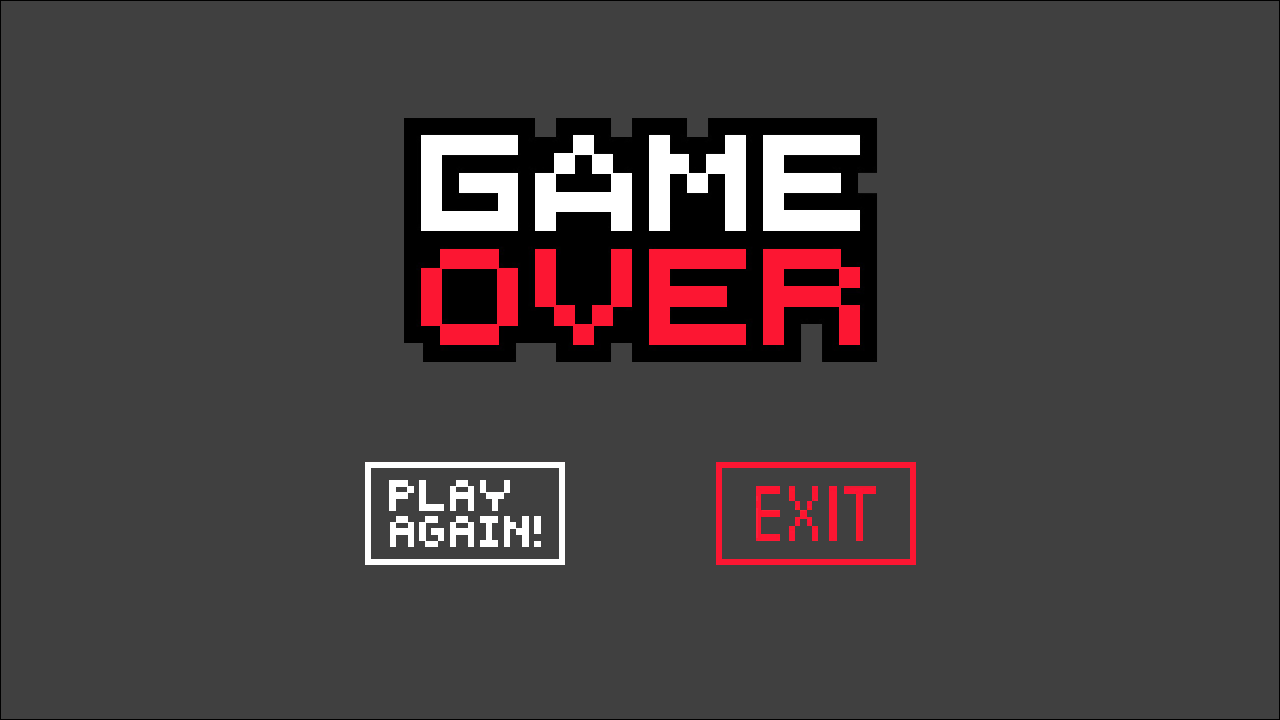
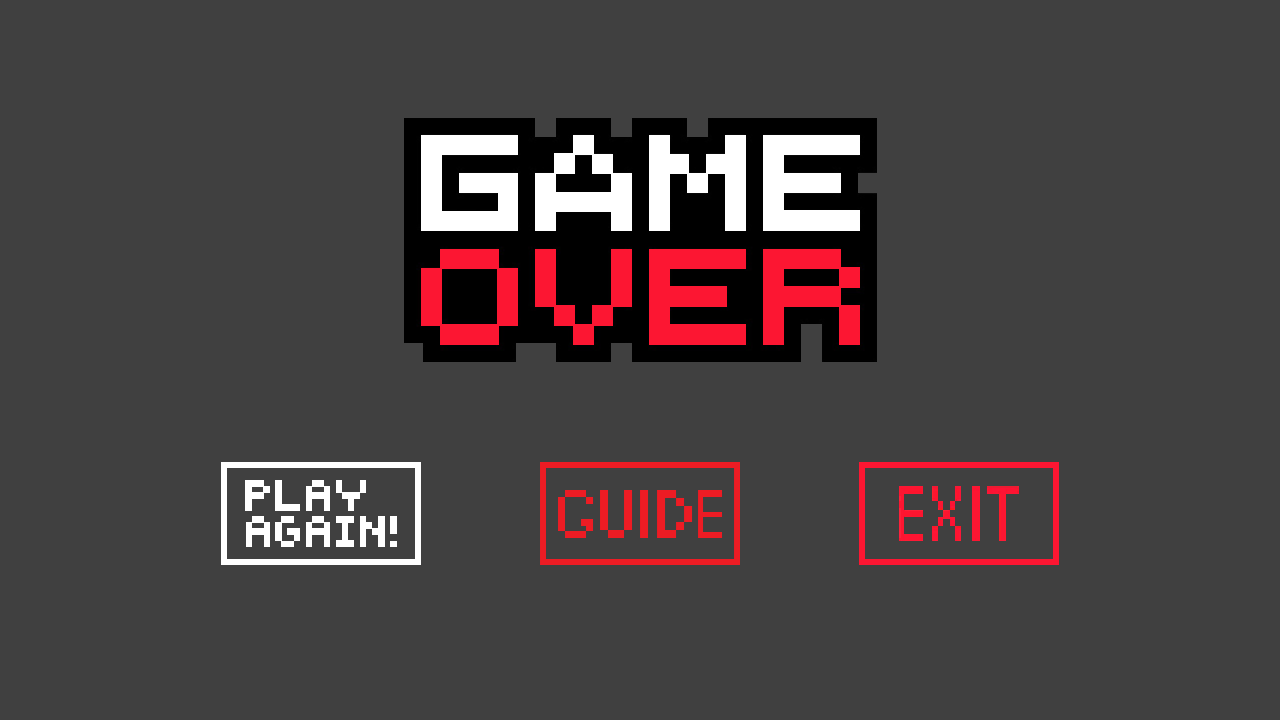
Added a Guide section in the main and game over screen.

Changed region(s): [[0.1562, 0.6417, 0.8438, 0.7944]]

diff --git a/src/main/java/meujogo/Modelo/Phase.java b/src/main/java/meujogo/Modelo/Phase.java
@@ -10,12 +10,13 @@ import java.awt.event.KeyAdapter;
 import java.awt.event.KeyEvent;
 
 public class Phase extends JPanel implements ActionListener {
-    private final Image background, skull, gameoverPlayAgain, gameoverExit, gameStartPlay, gameStartExit, explosion;
+    private final Image background, skull, gameoverPlayAgain, gameoverGuide, gameoverExit, gameStartPlay, gameStartExit, gameStartGuide, guideScreen, explosion;
     private int x1, x2;
     private final Player player;
     private List<Enemy1> enemy1;
     private List<Heart> hearts;
     private boolean inGame;
+    private boolean guide;
     private boolean showGameOver;
     private boolean starting = true;
     private int selectedOption = 0;
@@ -33,9 +34,12 @@ public class Phase extends JPanel implements ActionListener {
         background = new ImageIcon("D:\\Java\\Projects\\Galaxy Blitz\\src\\Media\\background.png").getImage();
         skull = new ImageIcon("D:\\Java\\Projects\\Galaxy Blitz\\src\\Media\\kills.png").getImage();
         gameoverPlayAgain = new ImageIcon("D:\\Java\\Projects\\Galaxy Blitz\\src\\Media\\game_over1.png").getImage();
-        gameoverExit = new ImageIcon("D:\\Java\\Projects\\Galaxy Blitz\\src\\Media\\game_over2.png").getImage();
+        gameoverGuide = new ImageIcon("D:\\Java\\Projects\\Galaxy Blitz\\src\\Media\\game_over2.png").getImage();
+        gameoverExit = new ImageIcon("D:\\Java\\Projects\\Galaxy Blitz\\src\\Media\\game_over3.png").getImage();
         gameStartPlay = new ImageIcon("D:\\Java\\Projects\\Galaxy Blitz\\src\\Media\\title1.png").getImage();
-        gameStartExit = new ImageIcon("D:\\Java\\Projects\\Galaxy Blitz\\src\\Media\\title2.png").getImage();
+        gameStartGuide = new ImageIcon("D:\\Java\\Projects\\Galaxy Blitz\\src\\Media\\title2.png").getImage();
+        gameStartExit = new ImageIcon("D:\\Java\\Projects\\Galaxy Blitz\\src\\Media\\title3.png").getImage();
+        guideScreen = new ImageIcon("D:\\Java\\Projects\\Galaxy Blitz\\src\\Media\\guide_screen.png").getImage();
         explosion = new ImageIcon("D:\\Java\\Projects\\Galaxy Blitz\\src\\Media\\kbum.png").getImage();
         player = new Player();
         player.load();
@@ -62,7 +66,14 @@ public class Phase extends JPanel implements ActionListener {
         if (starting){
             if (selectedOption == 0) {
                 g.drawImage(gameStartPlay, 0, 0, null);
-            } else {
+            }
+            if (selectedOption == 1) {
+                g.drawImage(gameStartGuide, 0, 0, null);
+                if (guide){
+                    g.drawImage(guideScreen, 0, 0, null);
+                }
+            }
+            if (selectedOption == 2) {
                 g.drawImage(gameStartExit, 0, 0, null);
             }
         }
@@ -99,7 +110,14 @@ public class Phase extends JPanel implements ActionListener {
             if (showGameOver && !starting) {
                 if (selectedOption == 0) {
                     g.drawImage(gameoverPlayAgain, 0, 0, null);
-                } else {
+                }
+                if (selectedOption == 1){
+                    g.drawImage(gameoverGuide, 0, 0, null);
+                    if (guide){
+                        g.drawImage(guideScreen, 0, 0, null);
+                    }
+                }
+                if (selectedOption == 2){
                     g.drawImage(gameoverExit, 0, 0, null);
                 }
             }
@@ -322,11 +340,17 @@ public class Phase extends JPanel implements ActionListener {
     private class TecladoAdapter extends KeyAdapter {
         public void keyPressed(KeyEvent tecla) {
             if (showGameOver) {
-                if (tecla.getKeyCode() == KeyEvent.VK_LEFT || tecla.getKeyCode() == KeyEvent.VK_A) {
-                    selectedOption = 0;
-                } else if (tecla.getKeyCode() == KeyEvent.VK_RIGHT || tecla.getKeyCode() == KeyEvent.VK_D) {
-                    selectedOption = 1;
-                } else if (tecla.getKeyCode() == KeyEvent.VK_ENTER) {
+                if (tecla.getKeyCode() == KeyEvent.VK_LEFT || tecla.getKeyCode() == KeyEvent.VK_A && !guide) {
+                    if (selectedOption > 0){
+                        selectedOption -= 1;
+                    }
+                }
+                else if (tecla.getKeyCode() == KeyEvent.VK_RIGHT || tecla.getKeyCode() == KeyEvent.VK_D && !guide) {
+                    if (selectedOption < 2){
+                        selectedOption += 1;
+                    }
+                }
+                else if (tecla.getKeyCode() == KeyEvent.VK_ENTER) {
                     if (selectedOption == 0) {
                         inGame = true;
                         showGameOver = false;
@@ -343,9 +367,16 @@ public class Phase extends JPanel implements ActionListener {
                         enemyInit();
 
                         repaint();
-                    } else {
+                    }
+                    if (selectedOption == 1) {
+                        guide = true;
+                    }
+                    if (selectedOption == 2) {
                         System.exit(0);
                     }
+                }
+                else if (guide && tecla.getKeyCode() == KeyEvent.VK_ESCAPE) {
+                    guide = false;
                 }
             } else {
                 player.keyPressed(tecla);
